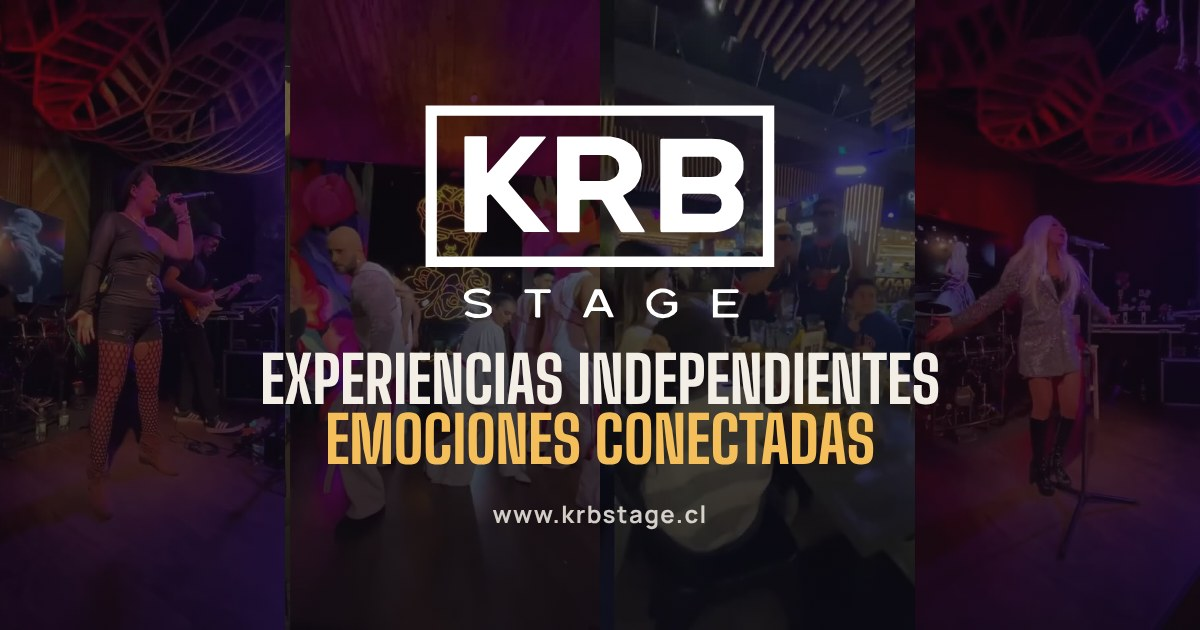
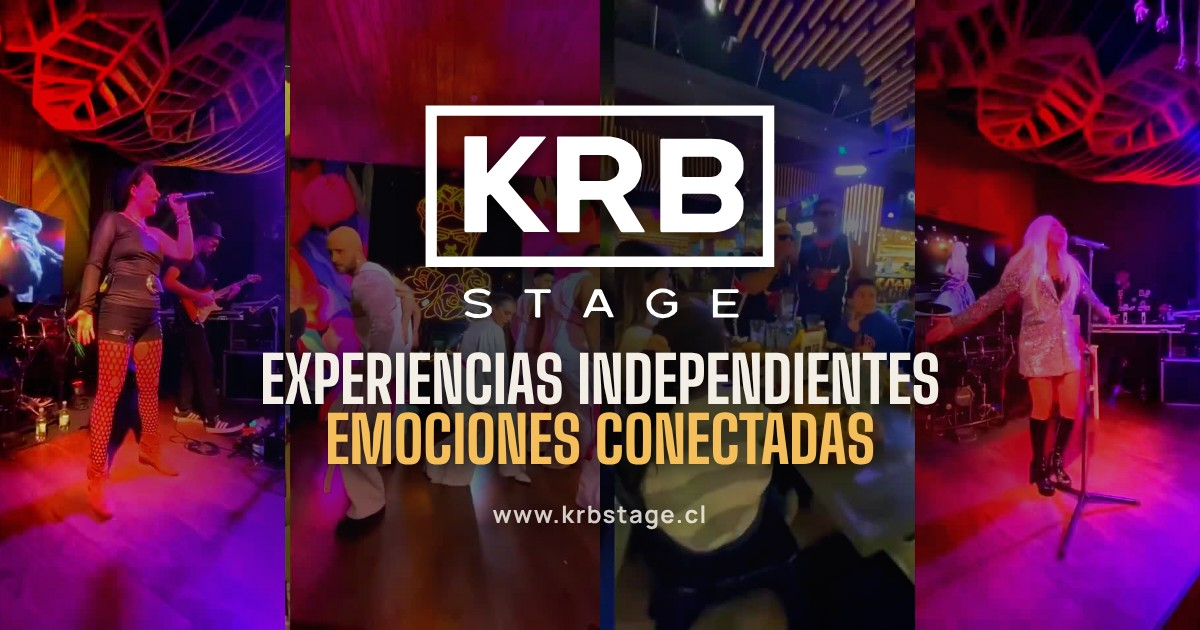
Página web: imagen para compartir con colores más vivos
Claude-Session: https://claude.ai/code/session_01LKJaPxTaAn6biDBG3JnbbJ

diff --git a/krbstage-web/index.html b/krbstage-web/index.html
@@ -9,8 +9,8 @@
 <meta property="og:description" content="Experiencias independientes. Emociones conectadas.">
 <meta property="og:type" content="website">
 <meta property="og:url" content="https://www.krbstage.cl/">
-<meta property="og:image" content="https://www.krbstage.cl/compartir.jpg?v=2">
-<meta property="og:image:secure_url" content="https://www.krbstage.cl/compartir.jpg?v=2">
+<meta property="og:image" content="https://www.krbstage.cl/compartir.jpg?v=3">
+<meta property="og:image:secure_url" content="https://www.krbstage.cl/compartir.jpg?v=3">
 <meta property="og:image:type" content="image/jpeg">
 <meta property="og:image:width" content="1200">
 <meta property="og:image:height" content="630">
@@ -18,7 +18,7 @@
 <meta property="og:site_name" content="KRB Stage">
 <meta property="og:locale" content="es_CL">
 <meta name="twitter:card" content="summary_large_image">
-<meta name="twitter:image" content="https://www.krbstage.cl/compartir.jpg?v=2">
+<meta name="twitter:image" content="https://www.krbstage.cl/compartir.jpg?v=3">
 <link rel="canonical" href="https://www.krbstage.cl/">
 <meta name="theme-color" content="#0c0b12">
 <link rel="icon" href="krb-stage.svg" type="image/svg+xml">
